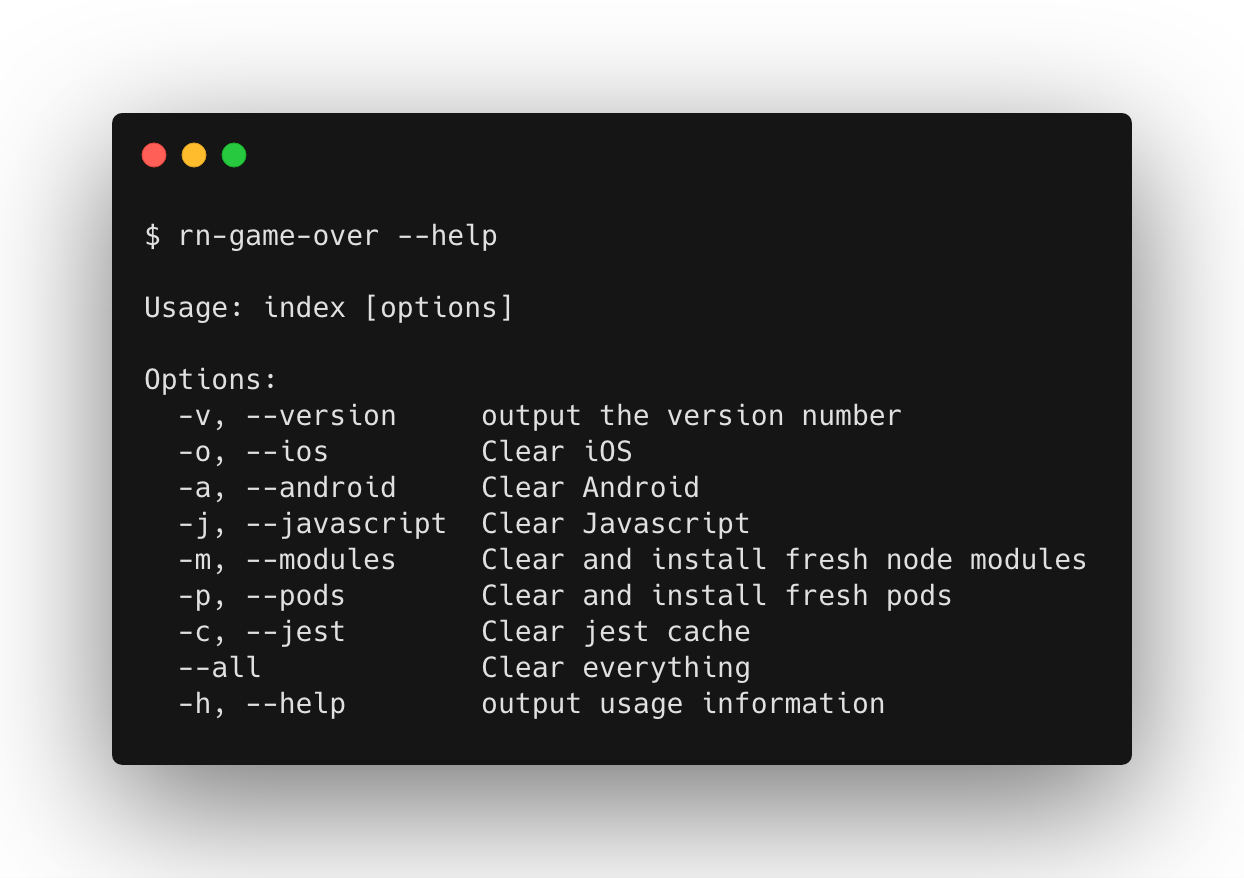
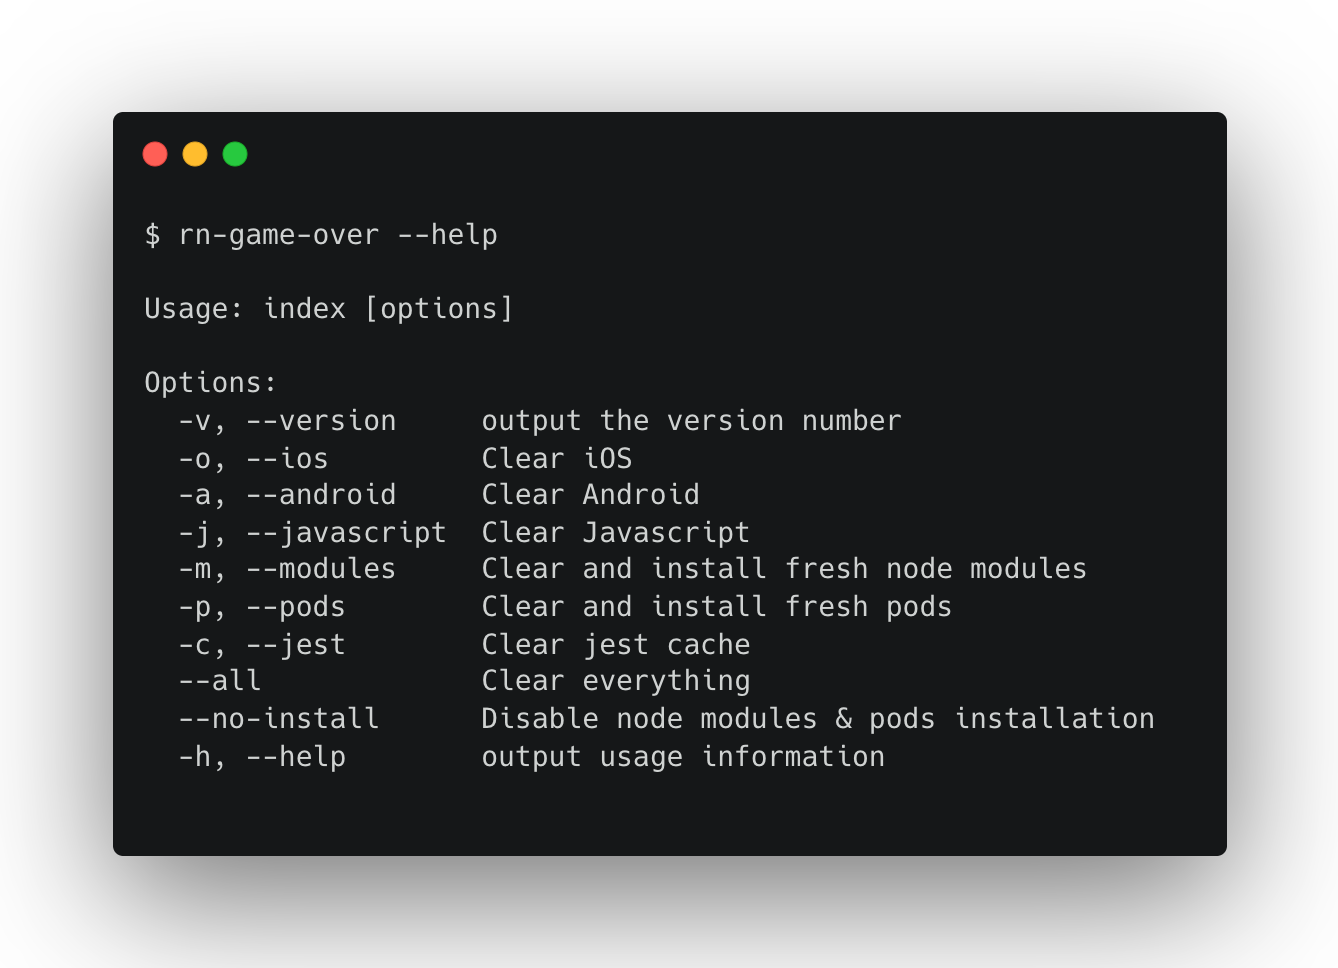
feat: add option '--no-install' to skip node modules & pods installation (#8)

Changed region(s): [[0.0611, 0.0923, 0.9164, 0.8918], [0.3055, 0.2153, 0.3971, 0.2768]]

diff --git a/index.js b/index.js
@@ -37,6 +37,7 @@ program
   .option("-p, --pods", "Clear and install fresh pods")
   .option("-c, --jest", "Clear jest cache")
   .option("--all", "Clear everything")
+  .option("--no-install", "Disable node modules & pods installation")
   .parse(process.argv);
 
 if (process.argv.length === 2) {
@@ -44,11 +45,11 @@ if (process.argv.length === 2) {
   console.log("For help, use --help");
 }
 
-const { ios, android, javascript, modules, pods, jest, all } = program;
+const { ios, android, javascript, modules, pods, jest, all, install } = program;
 
 if (all || javascript) jsTask();
 if (all || ios) iosTask();
 if (all || android) androidTask();
-if (all || modules) nodeModulesTask();
-if (all || pods) podsTask();
+if (all || modules) nodeModulesTask({ install });
+if (all || pods) podsTask({ install });
 if (all || jest) jestTask();

diff --git a/tasks/modules.js b/tasks/modules.js
@@ -1,12 +1,14 @@
 const shell = require("shelljs");
 const DEPENDENCY_MANAGER = require("../helpers/dependencyManager");
 
-module.exports = function() {
+module.exports = function({ install }) {
   console.log("## Javascript clean ##".bold.underline.modules);
 
   console.log("\n* rm -rf node_modules".modules);
   shell.exec("rm -rf node_modules", { async: false });
 
-  console.log(`\n* ${DEPENDENCY_MANAGER} install`.modules);
-  shell.exec(`${DEPENDENCY_MANAGER} install`, { async: false });
+  if (install) {
+    console.log(`\n* ${DEPENDENCY_MANAGER} install`.modules);
+    shell.exec(`${DEPENDENCY_MANAGER} install`, { async: false });
+  }
 };

diff --git a/tasks/pods.js b/tasks/pods.js
@@ -1,6 +1,6 @@
 const shell = require("shelljs");
 
-module.exports = function() {
+module.exports = function({ install }) {
   console.log("## Pods clean ##".bold.underline.pods);
 
   shell.cd("ios");
@@ -8,8 +8,10 @@ module.exports = function() {
   console.log("\n* Pods Clean".pods);
   shell.exec("rm -rf Pods", { async: false });
 
-  console.log("\n* Install Pods ".pods);
-  shell.exec("bundle exec pod install", { async: false });
+  if (install) {
+    console.log("\n* Install Pods ".pods);
+    shell.exec("bundle exec pod install", { async: false });
+  }
 
   shell.cd("..");
 };
